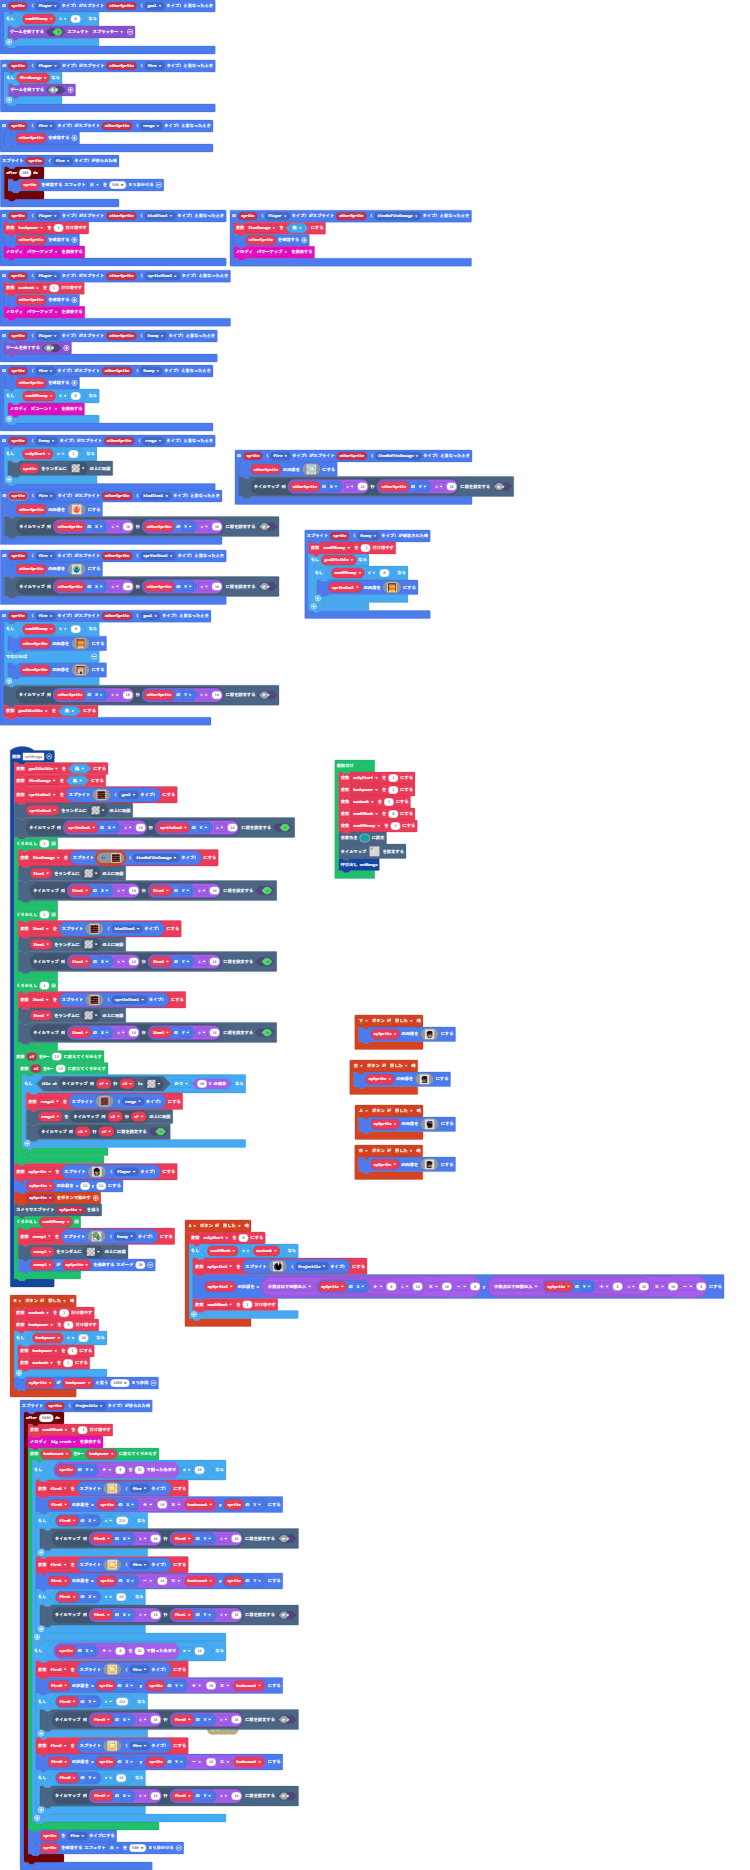
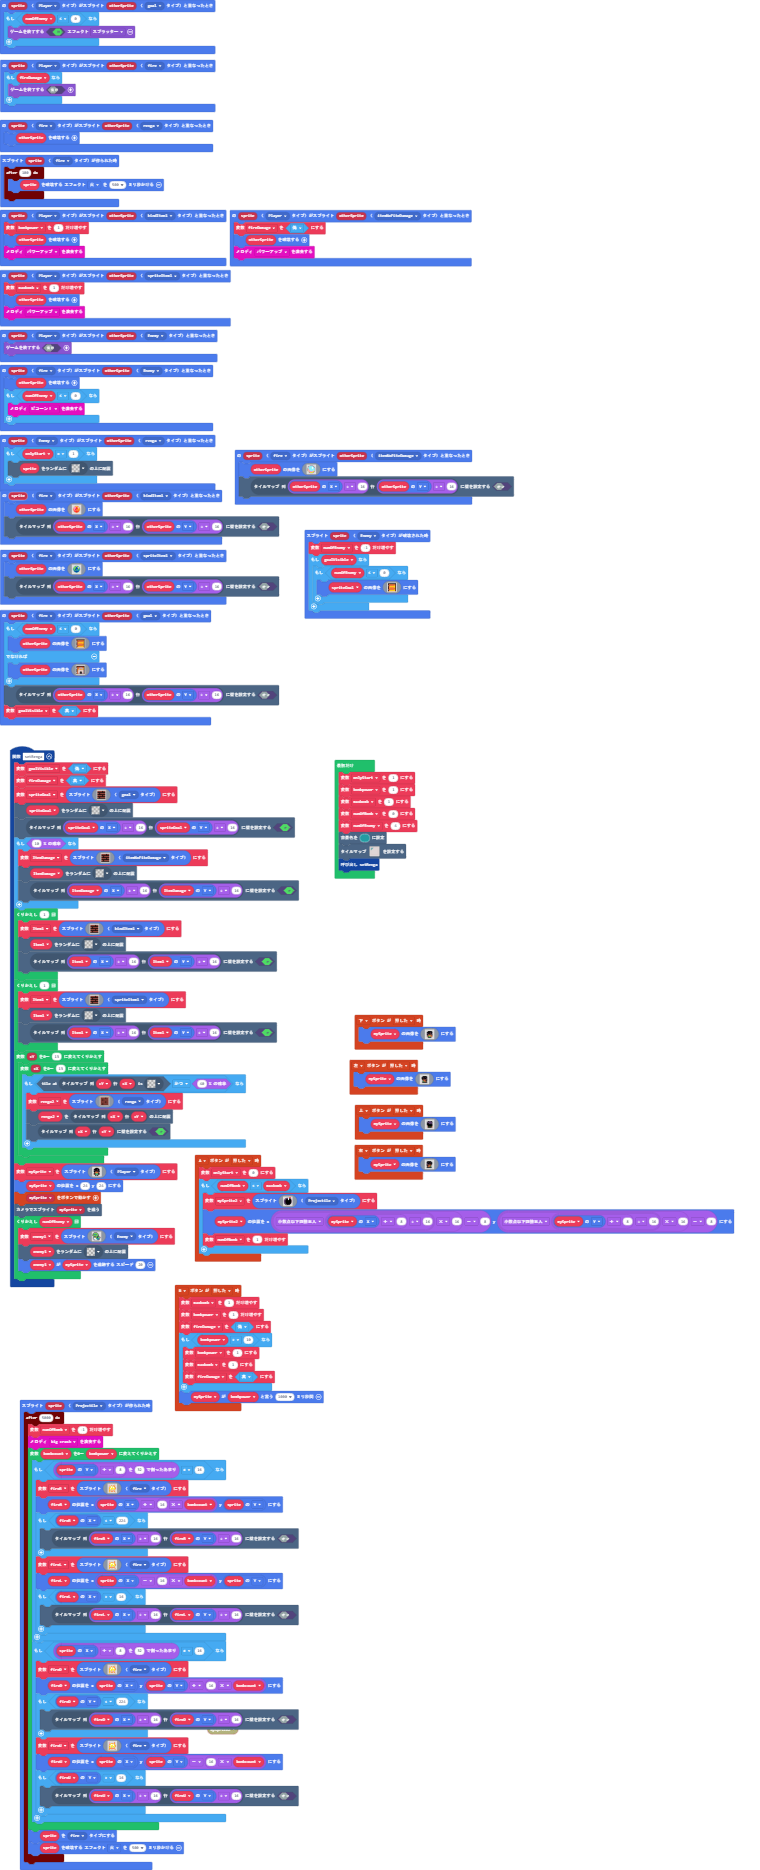
更新 main.blocks, main.ts

diff --git a/main.ts b/main.ts
@@ -135,7 +135,7 @@ function setRenga () {
         `, SpriteKind.goal)
     tiles.placeOnRandomTile(spriteGoal, assets.tile`transparency16`)
     tiles.setWallAt(tiles.getTileLocation(spriteGoal.x / 16, spriteGoal.y / 16), true)
-    for (let index = 0; index < 1; index++) {
+    if (Math.percentChance(10)) {
         ItemDamage = sprites.create(img`
             e e e e e e e e e e f e e e e e 
             e e e e e e e e e e f e e e e e 
@@ -154,8 +154,8 @@ function setRenga () {
             e e e e f e e e e e e e e e e e 
             f f f f f f f f f f f f f f f f 
             `, SpriteKind.itemNoFiteDamage)
-        tiles.placeOnRandomTile(Item1, assets.tile`transparency16`)
-        tiles.setWallAt(tiles.getTileLocation(Item1.x / 16, Item1.y / 16), true)
+        tiles.placeOnRandomTile(ItemDamage, assets.tile`transparency16`)
+        tiles.setWallAt(tiles.getTileLocation(ItemDamage.x / 16, ItemDamage.y / 16), true)
     }
     for (let index = 0; index < 1; index++) {
         Item1 = sprites.create(img`
@@ -343,7 +343,7 @@ controller.left.onEvent(ControllerButtonEvent.Pressed, function () {
         `)
 })
 sprites.onOverlap(SpriteKind.Player, SpriteKind.itemNoFiteDamage, function (sprite, otherSprite) {
-    ItemDamage = false
+    fireDamage = false
     otherSprite.destroy()
     music.powerUp.play()
 })
@@ -370,10 +370,12 @@ sprites.onOverlap(SpriteKind.fire, SpriteKind.spriteItem1, function (sprite, oth
 })
 controller.B.onEvent(ControllerButtonEvent.Pressed, function () {
     maxbomb += 1
-    bombpower += 5
-    if (bombpower > 20) {
+    bombpower += 1
+    fireDamage = false
+    if (bombpower > 10) {
         bombpower = 1
         maxbomb = 1
+        fireDamage = true
     }
     mySprite.say(bombpower, 1000)
 })
@@ -570,7 +572,7 @@ let fireR: Sprite = null
 let enemy1: Sprite = null
 let renga2: Sprite = null
 let Item1: Sprite = null
-let ItemDamage = false
+let ItemDamage: Sprite = null
 let spriteGoal: Sprite = null
 let fireDamage = false
 let goalVisible = false
